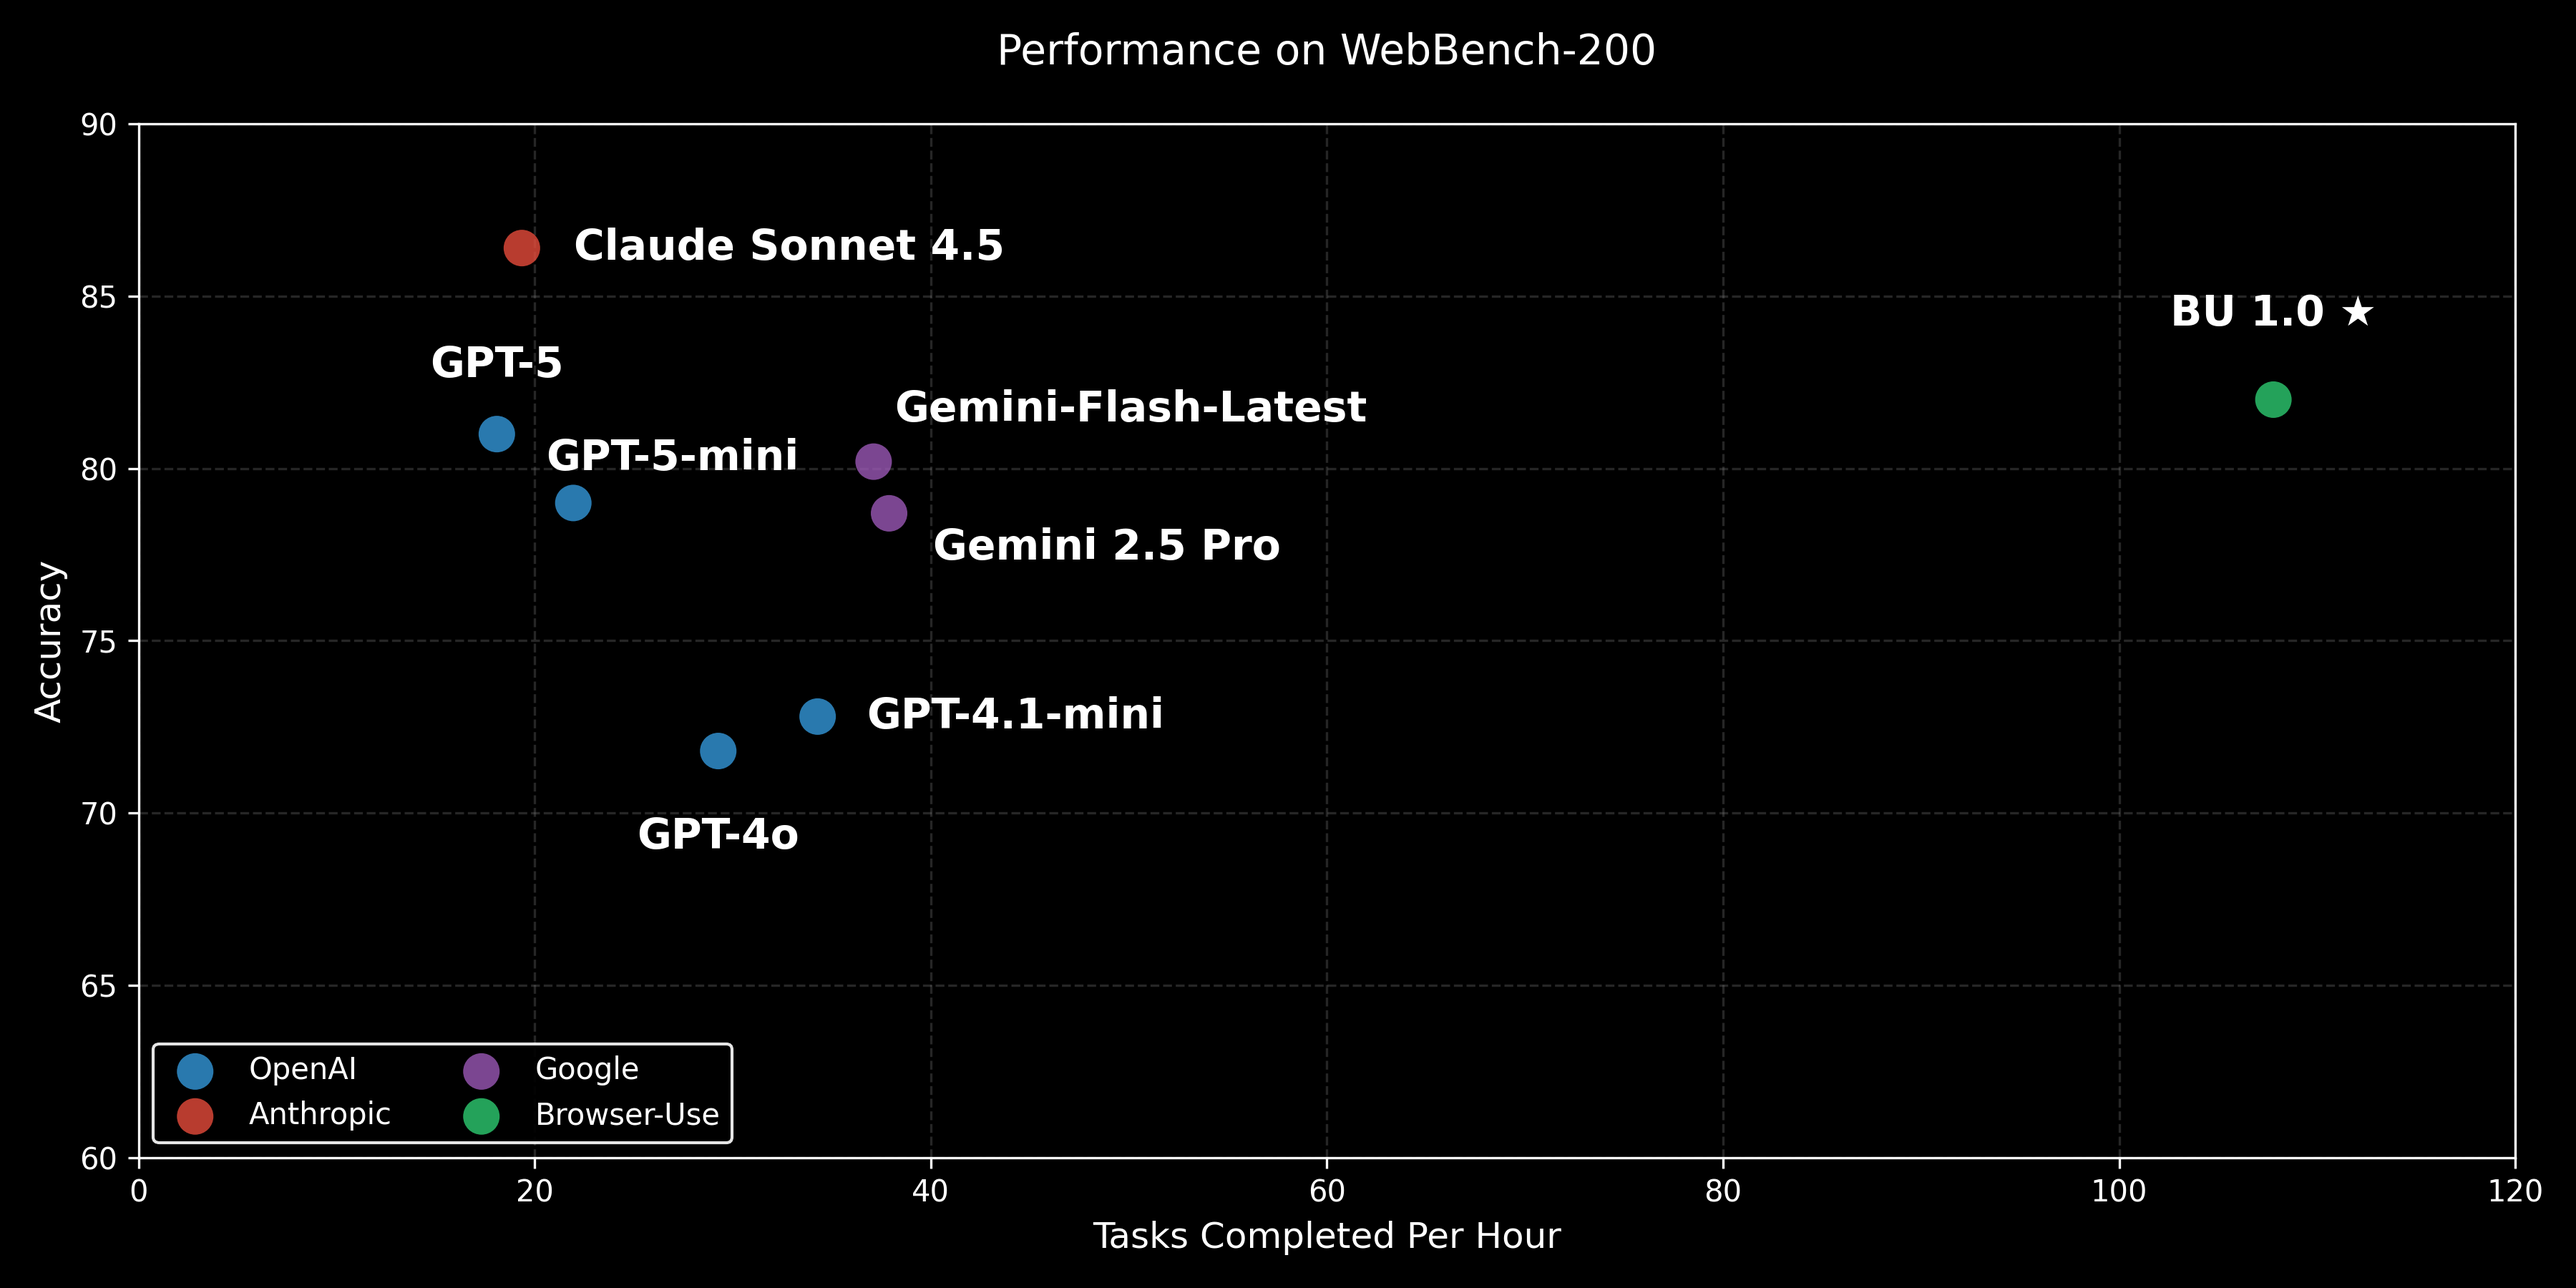
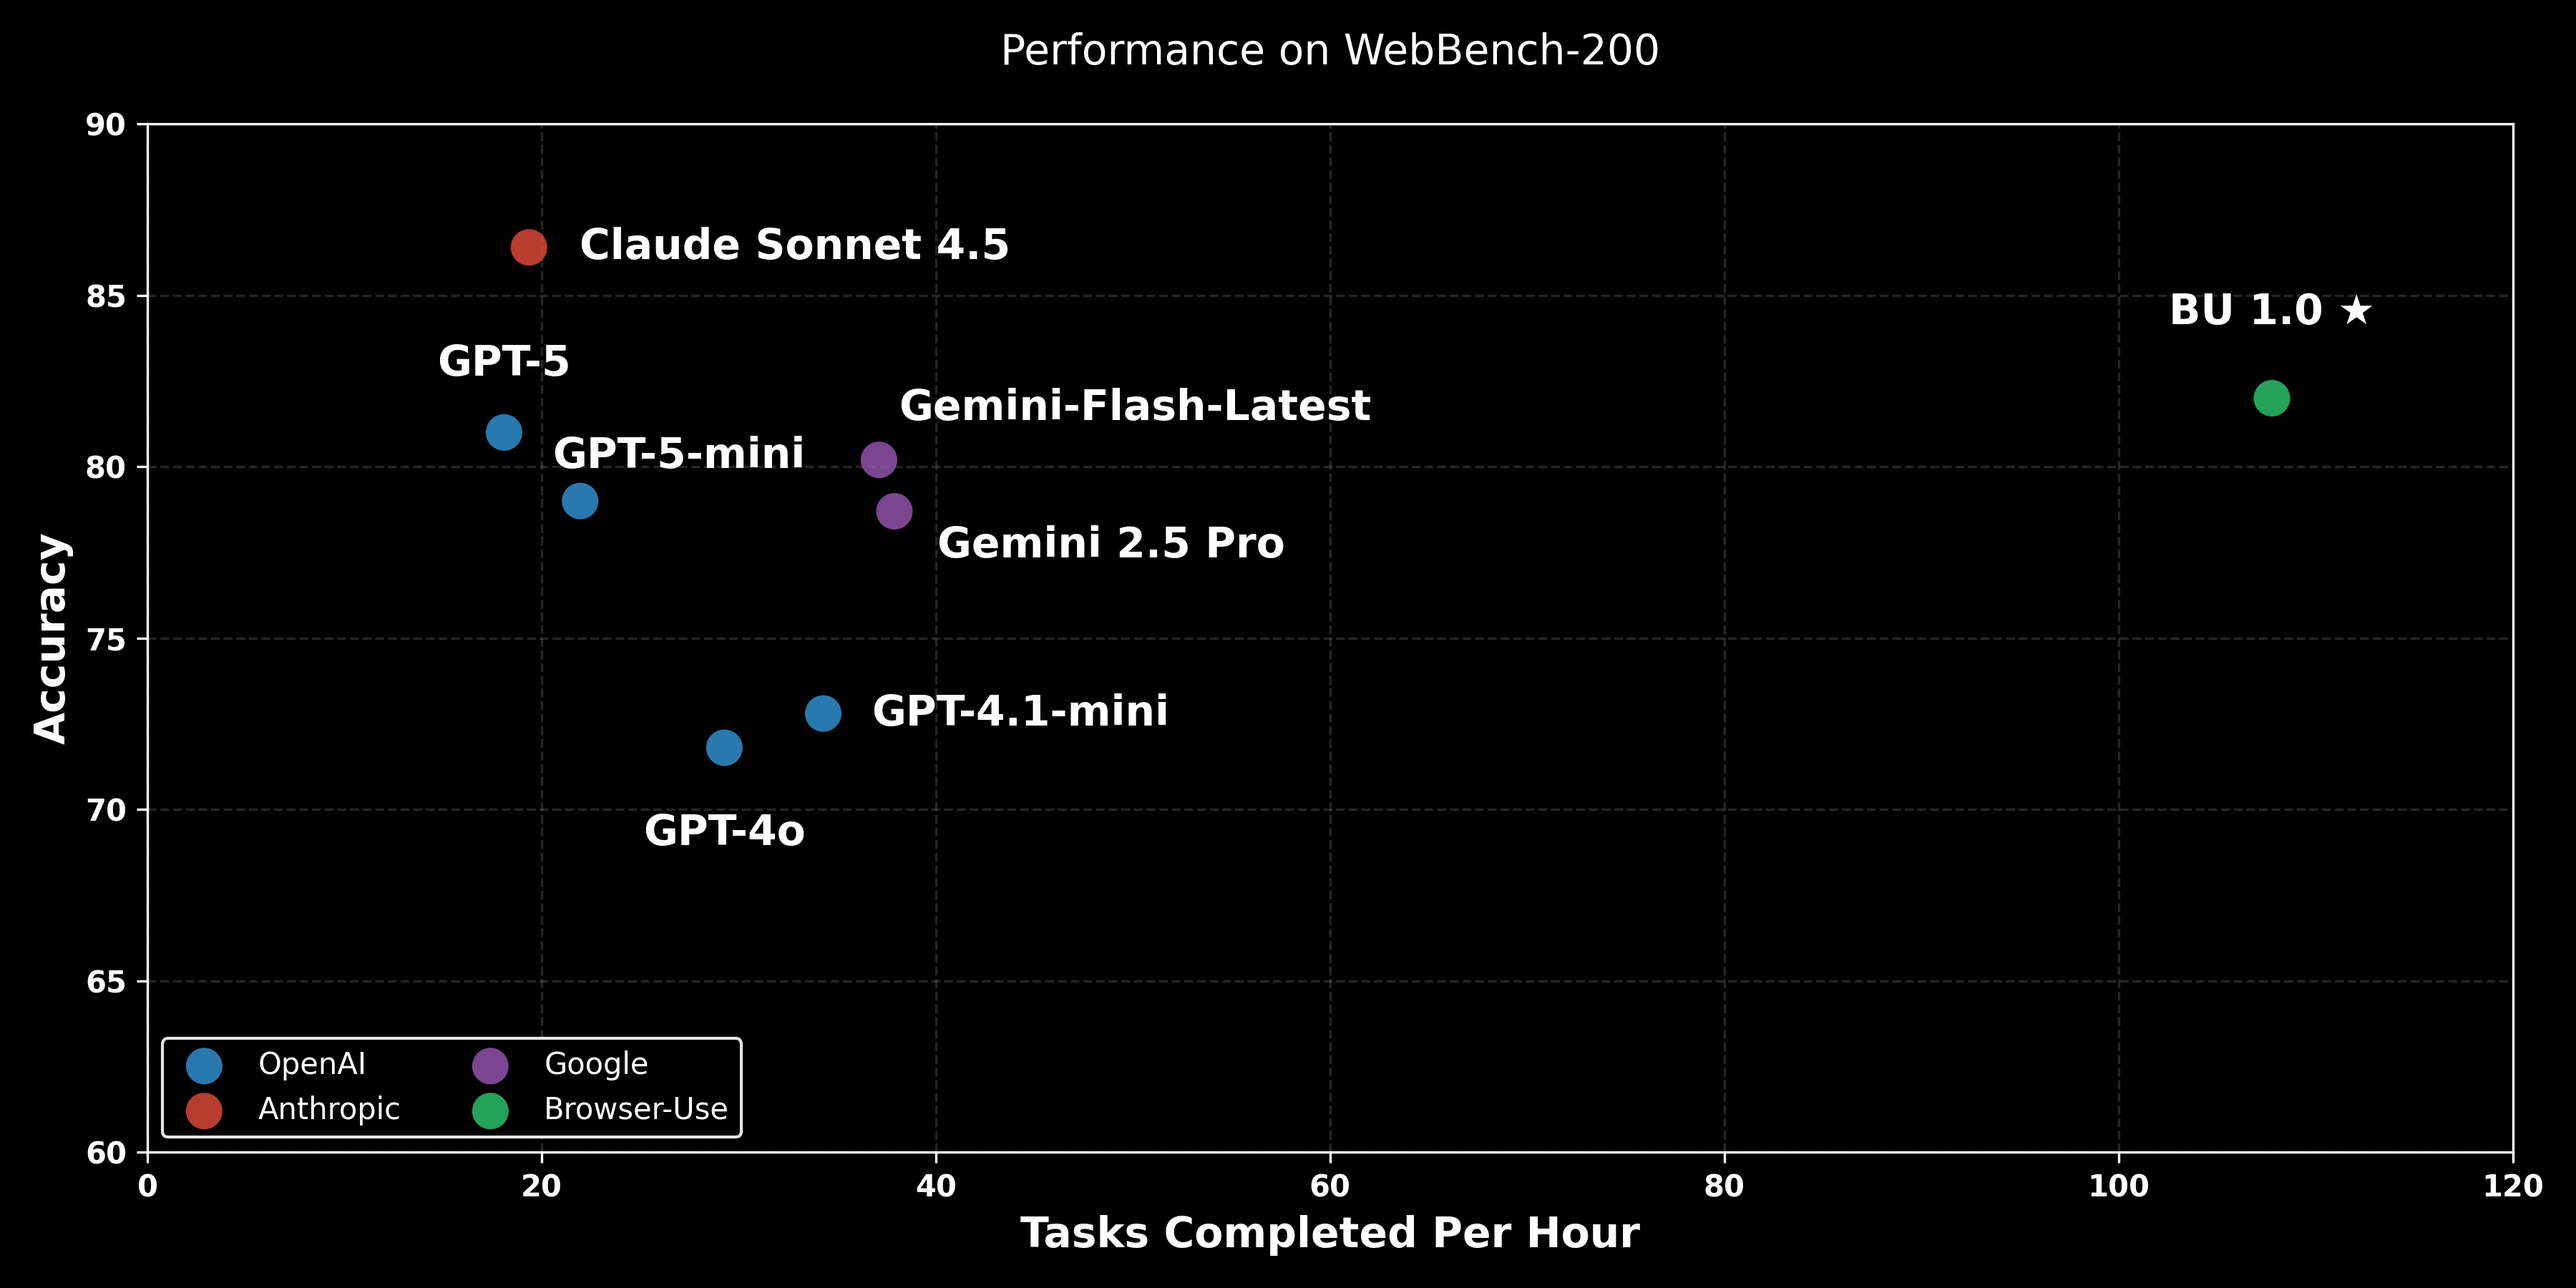
Font size

diff --git a/plot_cost.py b/plot_cost.py
@@ -113,8 +113,8 @@ for p1, p2 in pareto_points:
 	plt.plot(x, y, 'k--', linewidth=1, alpha=0.5, zorder=1)
 
 # Styling
-plt.xlabel('Tasks Completed with $1', fontsize=12, color='white')
-plt.ylabel('Accuracy', fontsize=12, color='white')
+plt.xlabel('Succesful tasks Completed with $1', fontsize=14, color='white', fontweight='bold')
+plt.ylabel('Accuracy', fontsize=14, color='white', fontweight='bold')
 plt.title('Performance on WebBench-200', fontsize=14, color='white', pad=20)
 
 # Set axis limits - calculate based on data range
@@ -132,6 +132,12 @@ plt.legend(loc='lower left', ncol=2, framealpha=0.9, facecolor='black', edgecolo
 ax.tick_params(colors='white', which='both')
 for spine in ax.spines.values():
 	spine.set_color('white')
+
+# Make tick labels bold
+for label in ax.get_xticklabels():
+	label.set_fontweight('bold')
+for label in ax.get_yticklabels():
+	label.set_fontweight('bold')
 
 plt.tight_layout()
 plt.savefig('webbench_performance_cost.png', dpi=300, facecolor='black')

diff --git a/plot.py b/plot.py
@@ -140,8 +140,8 @@ for p1, p2 in pareto_points:
 	plt.plot(x, y, 'k--', linewidth=1, alpha=0.5, zorder=1)
 
 # Styling
-plt.xlabel('Tasks Completed Per Hour', fontsize=12, color='white')
-plt.ylabel('Accuracy', fontsize=12, color='white')
+plt.xlabel('Tasks Completed Per Hour', fontsize=14, color='white', fontweight='bold')
+plt.ylabel('Accuracy', fontsize=14, color='white', fontweight='bold')
 plt.title('Performance on WebBench-200', fontsize=14, color='white', pad=20)
 
 # Set axis limits
@@ -158,6 +158,12 @@ plt.legend(loc='lower left', ncol=2, framealpha=0.9, facecolor='black', edgecolo
 ax.tick_params(colors='white', which='both')
 for spine in ax.spines.values():
 	spine.set_color('white')
+
+# Make tick labels bold
+for label in ax.get_xticklabels():
+	label.set_fontweight('bold')
+for label in ax.get_yticklabels():
+	label.set_fontweight('bold')
 
 plt.tight_layout()
 plt.savefig('webbench_performance.png', dpi=300, facecolor='black')
